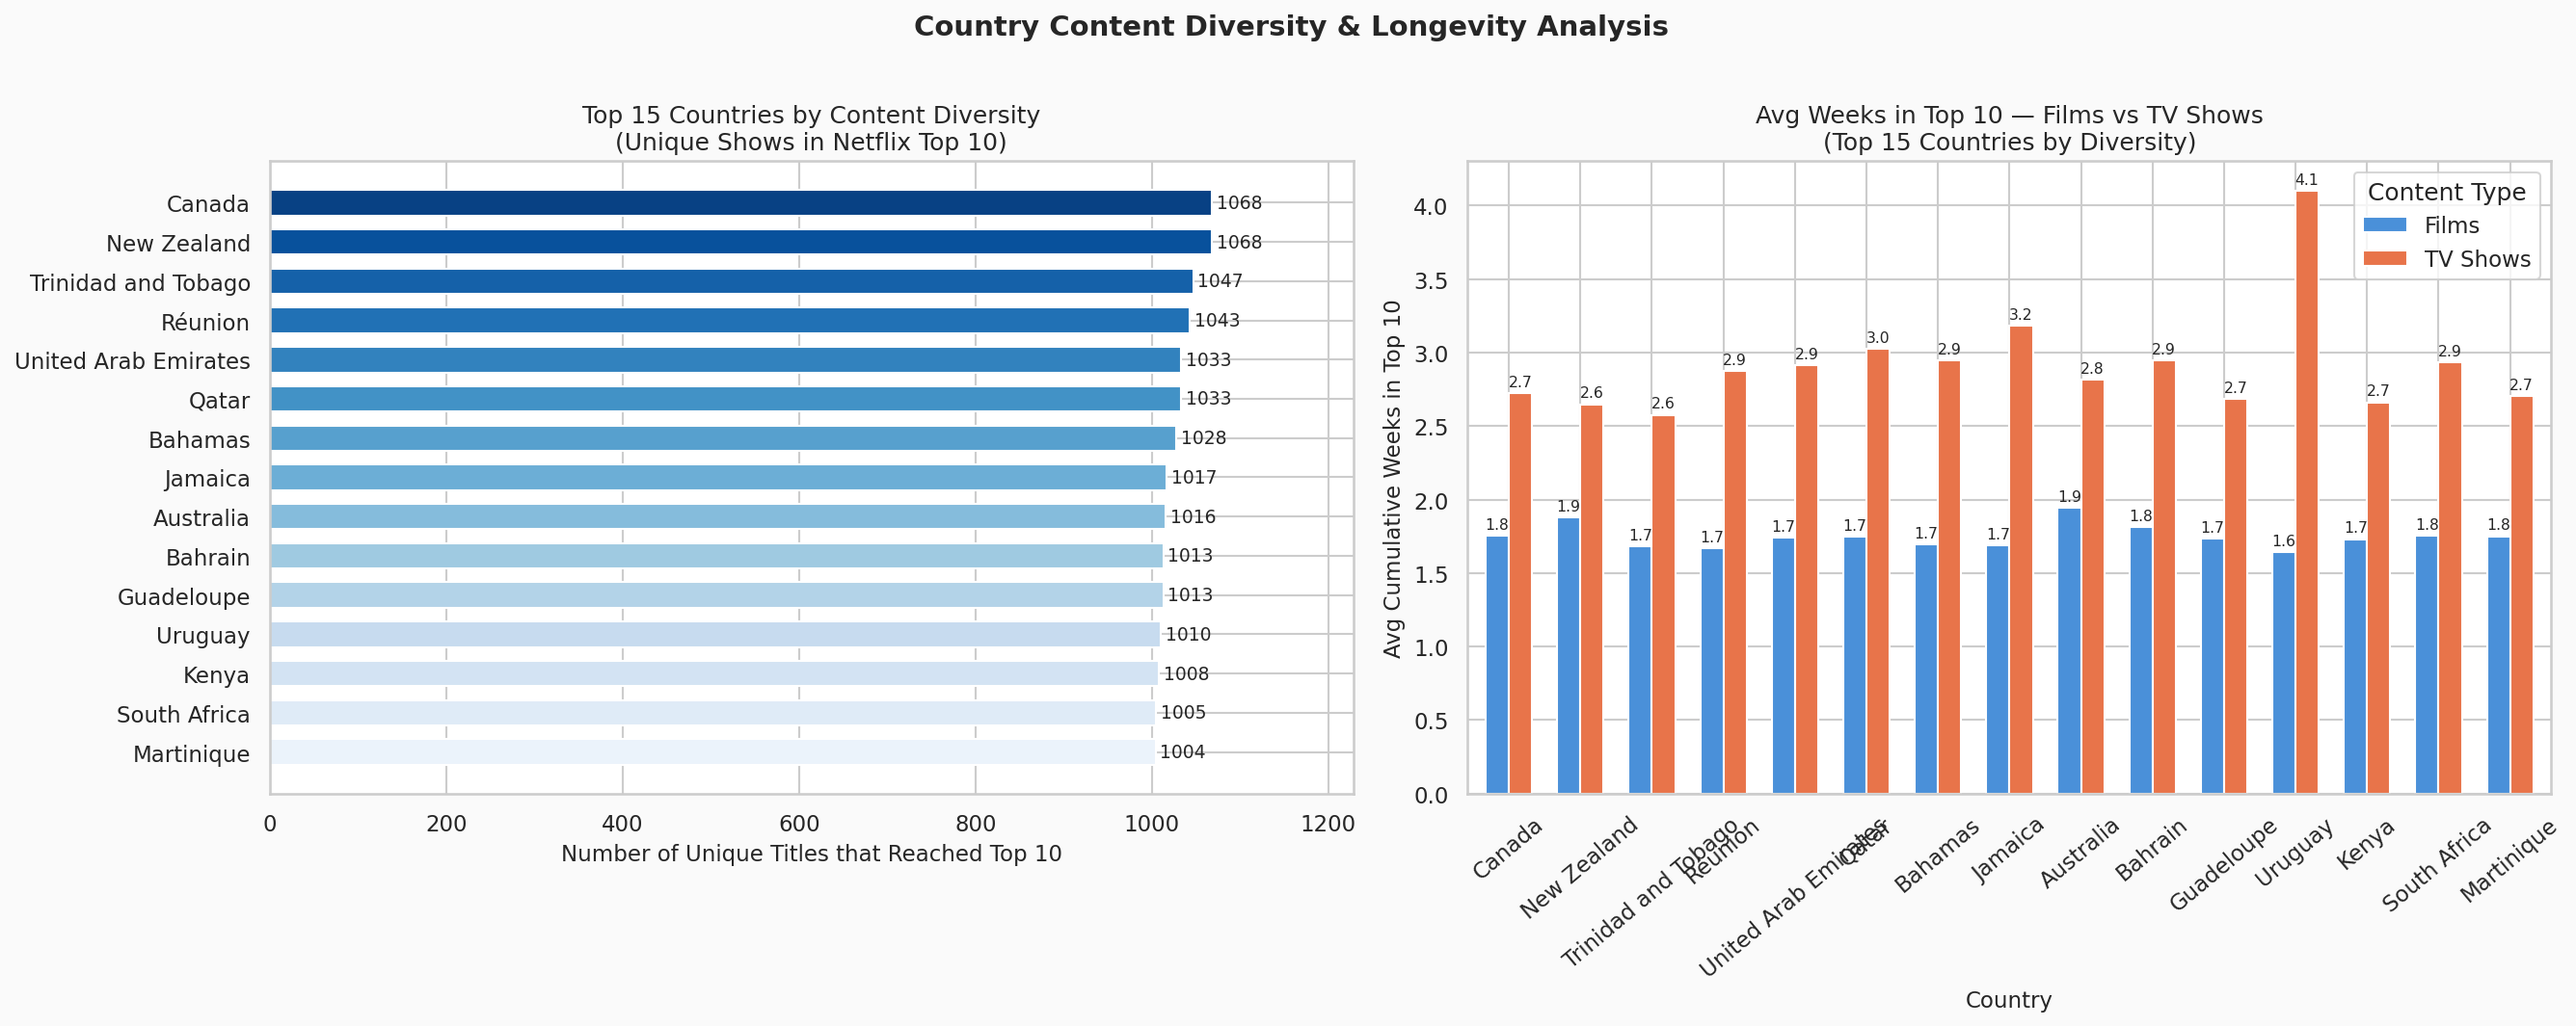
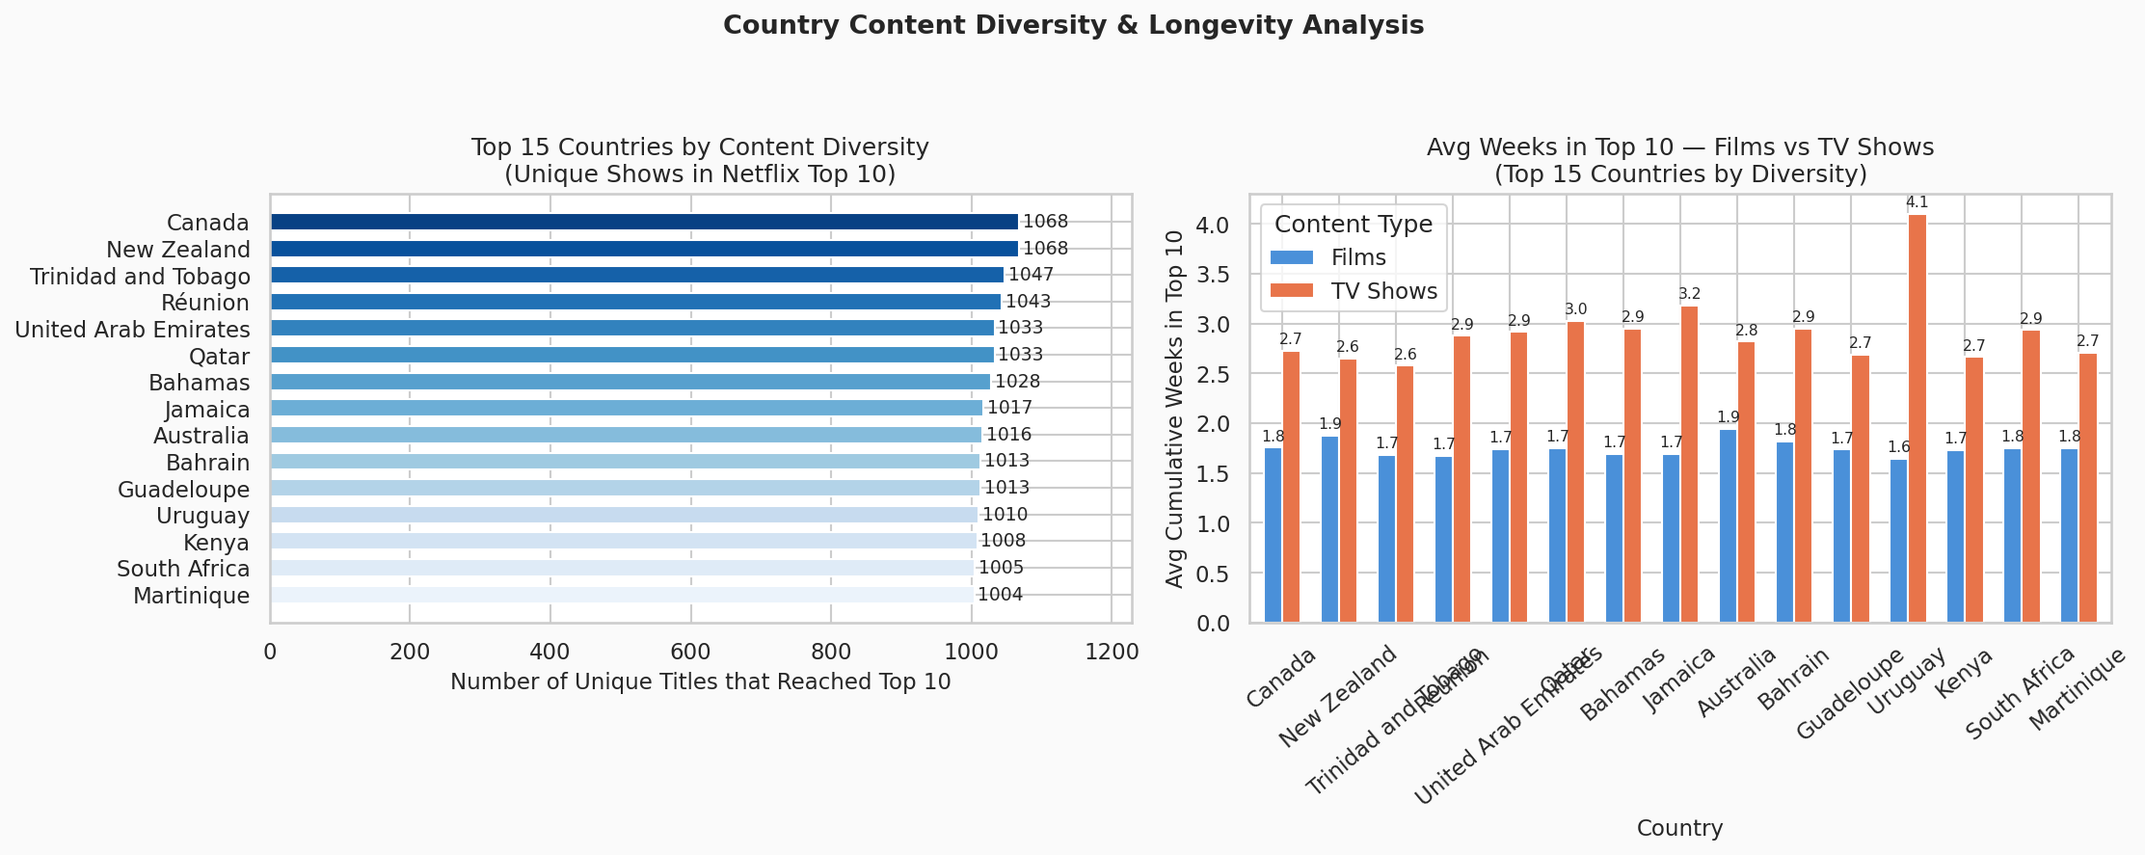
Task 3: Fix chart title overlap and reduce figure sizes for better display

diff --git a/eda_netflix.py b/eda_netflix.py
@@ -197,9 +197,13 @@ print("\n   Generating 6 charts... (close each window to continue)\n")
 
 # ── Helper: save + show ───────────────────────────────────────
 def _save(path, title=None):
+    fig = plt.gcf()
     if title:
-        plt.gcf().suptitle(title, fontsize=14, fontweight='bold', y=1.01)
-    plt.tight_layout()
+        fig.suptitle(title, fontsize=13, fontweight='bold')
+        # rect=[left, bottom, right, top] — reserves top 7% for the suptitle
+        plt.tight_layout(rect=[0, 0, 1, 0.93])
+    else:
+        plt.tight_layout()
     plt.savefig(path, dpi=150, bbox_inches='tight')
     plt.show()
     print(f"   Saved: {os.path.basename(path)}")
@@ -215,7 +219,7 @@ print(">> Chart 1/6: Content Category Overview")
 cat_counts = df_merged['content_type'].value_counts()
 top10      = df_popular.nlargest(10, 'hours_viewed_first_91_days')
 
-fig, axes = plt.subplots(1, 2, figsize=(16, 6))
+fig, axes = plt.subplots(1, 2, figsize=(13, 5))
 
 # Pie chart
 pie_colors = ['#4A90D9', '#E8744A']
@@ -260,7 +264,7 @@ box_labels = {
     'cumulative_weeks_in_top_10' : 'Weeks in\nTop 10',
 }
 
-fig, axes = plt.subplots(1, 2, figsize=(16, 5))
+fig, axes = plt.subplots(1, 2, figsize=(13, 4.5))
 
 # Histogram
 axes[0].hist(data_m, bins=40, color='steelblue', edgecolor='white', alpha=0.85)
@@ -304,7 +308,7 @@ _save('data/charts/02_viewership_distribution.png', 'Viewership Distribution & O
 # ─────────────────────────────────────────────────────────────
 print("\n>> Chart 3/6: Correlation & Rank Analysis")
 
-fig, axes = plt.subplots(1, 2, figsize=(16, 6))
+fig, axes = plt.subplots(1, 2, figsize=(13, 5))
 
 # Heatmap
 mask = np.triu(np.ones_like(corr_matrix, dtype=bool))
@@ -344,7 +348,7 @@ type_trend = (df_merged.groupby(['week', 'content_type'])['weekly_hours_viewed']
 quarterly = df_merged.groupby(['year', 'quarter'])['weekly_hours_viewed'].mean() / 1e6
 quarterly.index = [f'{y}-Q{q}' for y, q in quarterly.index]
 
-fig, axes = plt.subplots(2, 1, figsize=(14, 10), gridspec_kw={'hspace': 0.45})
+fig, axes = plt.subplots(2, 1, figsize=(12, 8), gridspec_kw={'hspace': 0.50})
 
 # Line chart: Films vs TV trend
 line_colors = {'Films': '#4A90D9', 'TV Shows': '#E8744A'}
@@ -396,7 +400,7 @@ longevity = (country_sub.groupby(['country_name', 'content_type'])
 # Align to the same country order as diversity chart
 longevity = longevity.reindex(top15_names, fill_value=0)
 
-fig, axes = plt.subplots(1, 2, figsize=(18, 7))
+fig, axes = plt.subplots(1, 2, figsize=(15, 6))
 
 # Horizontal bar: unique show diversity
 bar_cols = sns.color_palette('Blues_r', len(country_unique))
@@ -438,7 +442,7 @@ launch_group.index = ['Normal Launch', 'Staggered Launch']
 
 sample = df_merged[['runtime', 'weekly_views', 'content_type']].dropna()
 
-fig, axes = plt.subplots(1, 2, figsize=(16, 5))
+fig, axes = plt.subplots(1, 2, figsize=(13, 4.5))
 
 # Launch bar chart
 launch_colors = ['#4A90D9', '#E8744A']
